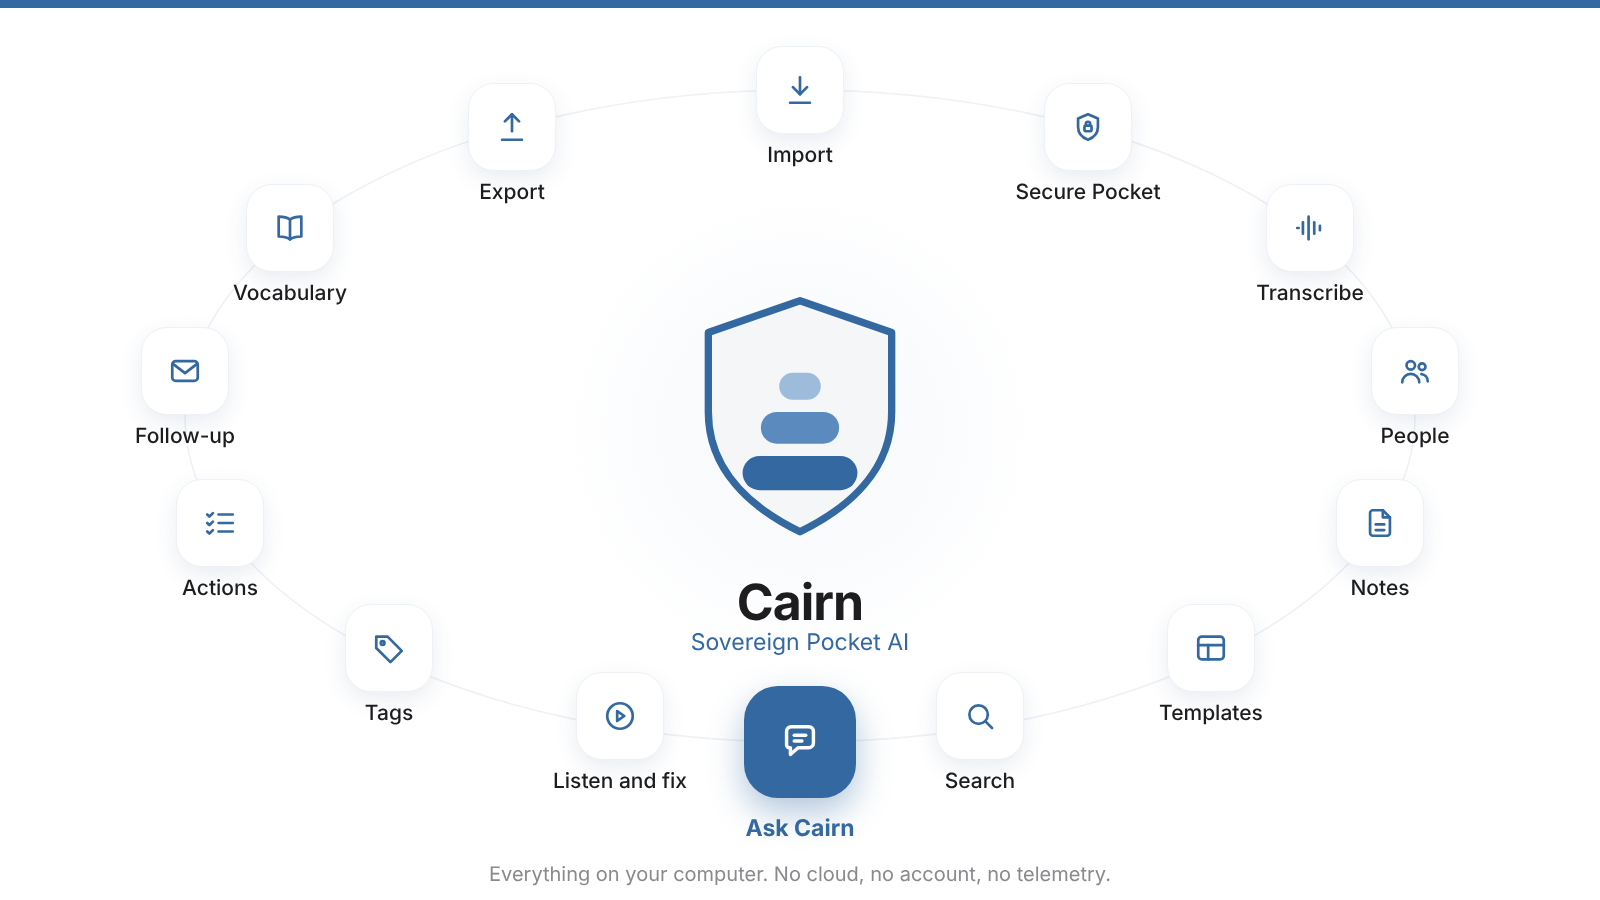
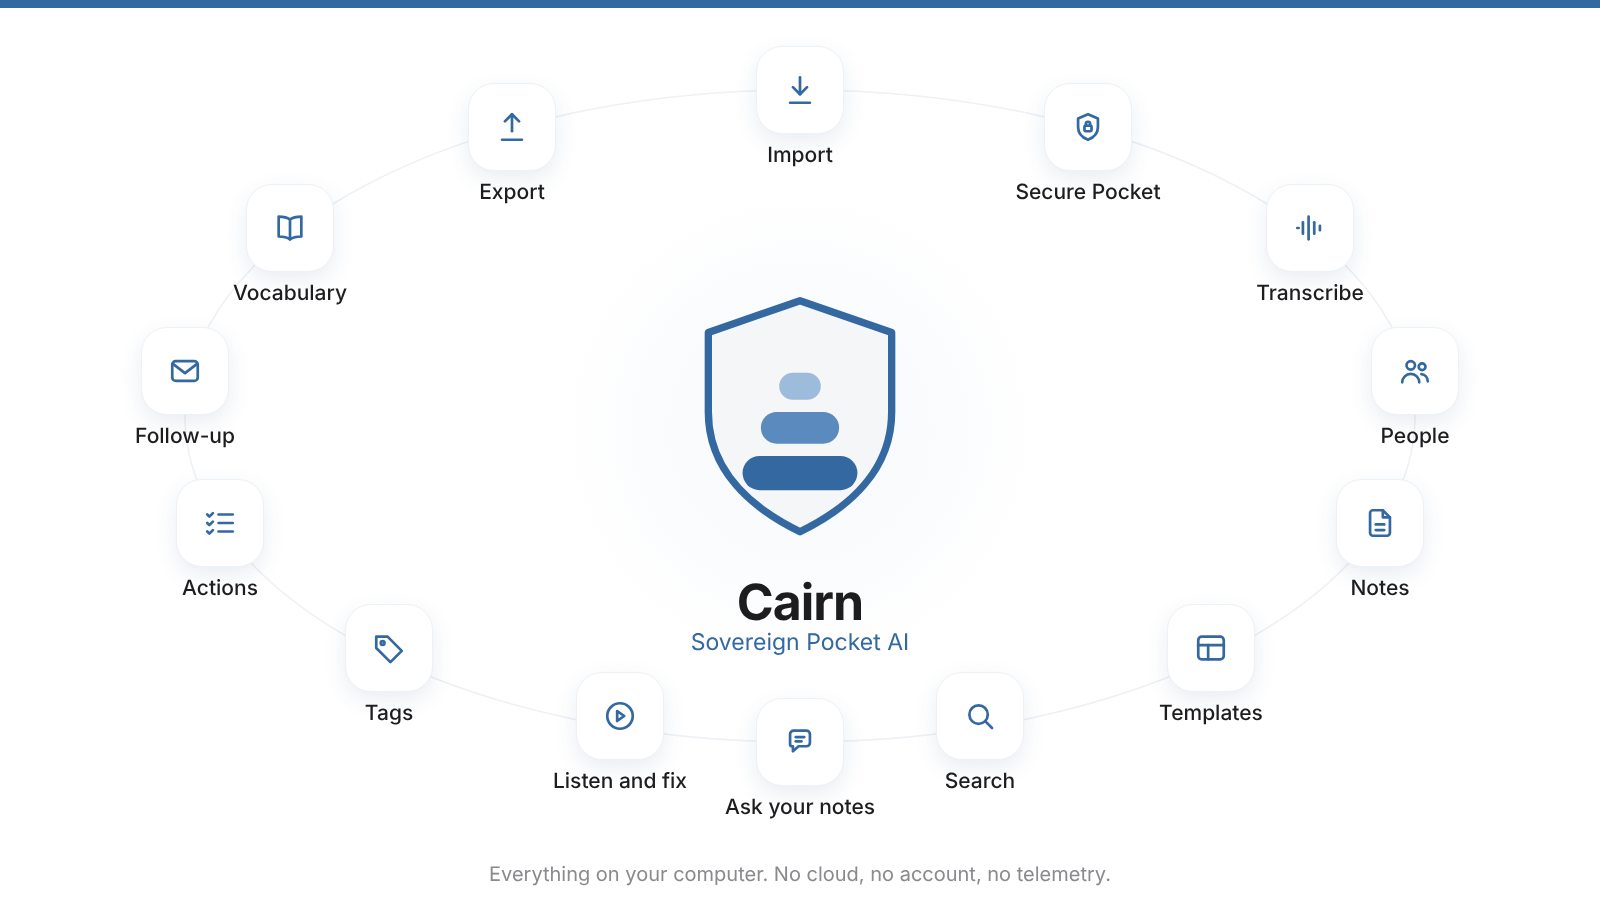
Docs: Ask your notes like any other feature
Back to the usual layout: the features image and the README treat the feature like the others, and the release notes are shorter.

Claude-Session: https://claude.ai/code/session_01UT5uZqFUHyBwm64AV4J4xV

Changed region(s): [[0.4375, 0.7467, 0.5625, 0.9333]]

diff --git a/cairn/web/app.js b/cairn/web/app.js
@@ -46,7 +46,7 @@
       pplForget: "Effacer l’empreinte vocale de cette personne", pplForgetAll: "Effacer toutes les empreintes vocales", pplForgotten: "Empreintes vocales effacées", pplVoice: "Voix mémorisée",
       voices: "Mémoriser les voix", voicesHint: "Optionnel. Cairn garde une empreinte de la voix de chaque personne que vous nommez, pour nommer seul les prochains enregistrements. Elle reste sur cet ordinateur et s’efface à tout moment. Il faut ensuite relancer l’identification des interlocuteurs sur les notes déjà faites.",
       spkAuto: "Reconnu par sa voix : corrigez-le si besoin",
-      modelsEmbed: "Recherche par sens", findRelated: "Passages proches", askGo: "Demander à Cairn", askHint: "Entrée pour poser la question", askWait: "Je cherche dans vos notes…", askStop: "Arrêter", askNone: "Je ne trouve rien à ce sujet dans vos notes.", askNoModel: "Installez un modèle de recherche (Réglages, Modèles) pour interroger vos notes.", askFailed: "La réponse a échoué. Vérifiez qu’Ollama est lancé, puis réessayez.", askSources: "Sources", askClear: "Nouvelle conversation", askFollow: "Une question de suite, ou un mot à chercher", askAllDates: "Toutes les dates", askDays: "{x} derniers jours", askAllTags: "Tous les tags", findIndexing: "Indexation des notes : {x} sur {y}",
+      modelsEmbed: "Recherche par sens", findRelated: "Passages proches", askGo: "Demander à mes notes", askHint: "Entrée pour poser la question", askWait: "Je cherche dans vos notes…", askStop: "Arrêter", askNone: "Je ne trouve rien à ce sujet dans vos notes.", askNoModel: "Installez un modèle de recherche (Réglages, Modèles) pour interroger vos notes.", askFailed: "La réponse a échoué. Vérifiez qu’Ollama est lancé, puis réessayez.", askSources: "Sources", askClear: "Nouvelle conversation", askFollow: "Une question de suite, ou un mot à chercher", askAllDates: "Toutes les dates", askDays: "{x} derniers jours", askAllTags: "Tous les tags", findIndexing: "Indexation des notes : {x} sur {y}",
       segEdit: "Corriger ce passage", segHere: "Ici seulement", segAlways: "Toujours : apprend la correction et l’applique à toutes les notes", segEdited: "Corrigé à la main",
       segHelp: "Corrigez le texte. « Ici seulement » ne change que cette ligne. « Toujours » ajoute une règle au vocabulaire pour toutes les notes.",
       segSaved: "Passage corrigé", segRule: "Règle ajoutée : {r}", segNoRule: "Pour apprendre une correction, modifiez un mot existant",
@@ -127,7 +127,7 @@
       pplForget: "Erase this person's voiceprint", pplForgetAll: "Erase all voiceprints", pplForgotten: "Voiceprints erased", pplVoice: "Voice remembered",
       voices: "Remember voices", voicesHint: "Optional. Cairn keeps a voiceprint of each person you name, to name the next recordings by itself. It stays on this computer and can be erased at any time. Run speaker identification again on notes already made.",
       spkAuto: "Recognised by voice: correct it if needed",
-      modelsEmbed: "Search by meaning", findRelated: "Related passages", askGo: "Ask Cairn", askHint: "Press Enter to ask", askWait: "Looking through your notes…", askStop: "Stop", askNone: "I find nothing about this in your notes.", askNoModel: "Install a search model (Settings, Models) to ask your notes.", askFailed: "The answer failed. Check that Ollama is running, then try again.", askSources: "Sources", askClear: "New conversation", askFollow: "A follow-up question, or a word to find", askAllDates: "All dates", askDays: "Last {x} days", askAllTags: "All tags", findIndexing: "Reading the notes: {x} of {y}",
+      modelsEmbed: "Search by meaning", findRelated: "Related passages", askGo: "Ask my notes", askHint: "Press Enter to ask", askWait: "Looking through your notes…", askStop: "Stop", askNone: "I find nothing about this in your notes.", askNoModel: "Install a search model (Settings, Models) to ask your notes.", askFailed: "The answer failed. Check that Ollama is running, then try again.", askSources: "Sources", askClear: "New conversation", askFollow: "A follow-up question, or a word to find", askAllDates: "All dates", askDays: "Last {x} days", askAllTags: "All tags", findIndexing: "Reading the notes: {x} of {y}",
       segEdit: "Correct this passage", segHere: "Only here", segAlways: "Always: learns the correction and applies it to every note", segEdited: "Corrected by hand",
       segHelp: "Fix the text. “Only here” changes this line only. “Always” adds a rule to the vocabulary for every note.",
       segSaved: "Passage corrected", segRule: "Rule added: {r}", segNoRule: "To teach a correction, change an existing word",

diff --git a/README.md b/README.md
@@ -2,29 +2,11 @@
 
 **Your Pocket. Your computer. Your data.**
 
-**Sovereign Pocket AI.** Cairn turns your Pocket recordings into sharp, structured notes. Transcribed, analysed and kept on your computer, and nowhere else. Then ask them anything.
+**Sovereign Pocket AI.** Cairn turns your Pocket recordings into sharp, structured notes. Transcribed, analysed and kept on your computer, and nowhere else.
 
 **No cloud. No account. No telemetry. Nothing leaves your machine.**
 
-![Talk to your recordings: ask Cairn in plain words and get the answer, and the minute it was said](docs/brand/hero.png)
-
-## Ask Cairn
-
-**Talk to everything you have recorded.**
-
-Ask in plain words. Cairn answers from what was said, and shows the minute it was said.
-
-- **Plain words in, answer out.** "Why did the launch slip?" "What did we promise the client?"
-- **Every statement sourced.** Tap a number, read the passage, hear the recording.
-- **A real conversation.** Follow up, narrow to a week or a tag.
-- **What is still open?** Your actions and decisions, listed at once.
-- **Private by design.** It runs on your Mac with a model you chose. No cloud, no account, nothing you ask is kept.
-
-![Asking Cairn: an answer with the passage behind it, then a follow-up](docs/screenshots/ask-hero.png)
-
-Optional, installed from Settings > Models. How it works: [docs/GUIDE.md](docs/GUIDE.md#finding-listening-following-up).
-
-![Cairn: import, secure Pocket, transcribe, people, notes, templates, search, ask Cairn, listen and fix, tags, actions, follow-up, vocabulary, export](docs/brand/features.png)
+![Cairn: import, secure Pocket, transcribe, people, notes, templates, search, ask your notes, listen and fix, tags, actions, follow-up, vocabulary, export](docs/brand/features.png)
 
 ## What Cairn does
 
@@ -32,7 +14,7 @@ Optional, installed from Settings > Models. How it works: [docs/GUIDE.md](docs/G
 
 **Understand.** Whisper writes every word on your machine, for one minute or four hours. Voices are named once and recognised in every note. Each note comes with a title, a summary, decisions, actions and key points, in the template you defined once, with a fidelity score that keeps the AI honest.
 
-**Find and fix.** Any word in every note in a second, or ask Cairn a question and get the answer with its source. Tap a time stamp, hear the passage, fix the word. Teach Cairn your names once and they are right in every note. Tags replace folders.
+**Find and fix.** Any word in every note in a second, or ask your notes a question and get an answer with its source. Tap a time stamp, hear the passage, fix the word. Teach Cairn your names once and they are right in every note. Tags replace folders.
 
 **Act.** Every action from every note, by person, in one list. The follow-up email is already written. Export to Markdown, HTML, text or email.
 
@@ -51,9 +33,9 @@ What is new in each version: [Release notes](docs/RELEASE-NOTES.md).
 |---|---|---|
 | ![Securing the Pocket with a password](docs/screenshots/vault.png) | ![A protected Pocket](docs/screenshots/vault-secured.png) | ![People of all the notes](docs/screenshots/people.png) |
 
-| Find anything | Ask Cairn | Hear what was said |
+| Find anything | Ask your notes | Hear what was said |
 |---|---|---|
-| ![Search](docs/screenshots/find.png) | ![Ask Cairn, with the passage behind every answer](docs/screenshots/ask.png) | ![Transcript with the recording](docs/screenshots/listen.png) |
+| ![Search](docs/screenshots/find.png) | ![Ask your notes, with the passage behind every answer](docs/screenshots/ask.png) | ![Transcript with the recording](docs/screenshots/listen.png) |
 
 | Fix it in place | Words to check | Your vocabulary |
 |---|---|---|
@@ -117,7 +99,7 @@ You need neither the Pocket desktop app nor a Pocket account on the computer.
 
 > **Names and places (optional):** in Settings, add the names of people and places and the rare terms you use to Vocabulary, one per line. Cairn writes close variants as listed in the transcript, tells the summary the spelling, and shows every correction on the note. `Brant, Brand => Brandt` always replaces each spelling, and `Open Day => BRANDT Day | awards, ceremony` only near those words. One tap then updates the notes that need it.
 
-> **Ask Cairn (optional):** in Settings > Models, install a search model (Qwen3 Embedding 0.6B, 0.6 GB, or BGE-M3, 1.2 GB, many languages). Your notes are indexed in the background, then a question typed in the magnifier and sent with Enter is answered by your summary model from the passages it finds, each with its number, note and minute. Follow-ups, "what is still open?", and a period or a tag to narrow the question are all there; the model has no tool, nothing is stored and nothing leaves your computer. Details: [docs/GUIDE.md](docs/GUIDE.md#finding-listening-following-up).
+> **Ask your notes (optional):** in Settings > Models, install a search model (Qwen3 Embedding 0.6B or BGE-M3). Then type a question in the magnifier and press Enter: your summary model answers from the passages it finds, each with its note and minute. Follow up, ask what is still open, or narrow it to a period or a tag. Nothing is stored and nothing leaves your computer. Details: [docs/GUIDE.md](docs/GUIDE.md#finding-listening-following-up).
 
 > **Choose your models (optional):** the default install uses Whisper large-v3-turbo and Qwen3 4B. In Settings > Models you can switch the speech model to Whisper large-v3 (3.1 GB, slower, 16 GB of memory advised) and the summary model to Qwen3 8B or 14B. Nothing downloads until you confirm, and a model already in your Ollama is reused. Sizes shown for installed models are the real ones on your computer.
 

diff --git a/docs/GUIDE.md b/docs/GUIDE.md
@@ -91,7 +91,7 @@ Both scores appear in the exports (Markdown, HTML, copy). Secure mode hides the 
 
 - **Search:** the magnifier in the header searches the title, the summary and the transcript of every finished note, without regard to accents. Every word you type must be there. Each result shows the lines found with your words marked: a transcript line opens the transcript at that moment, the others open the note. Secure mode hides the search like it hides the list.
 - **Related passages:** with a search model installed (Settings, **Models**, Search by meaning), a pause in typing adds **Related passages** below the usual results: the lines that answer a question even when the words differ. The model runs in your local model server and the notes are read once, in the background.
-- **Ask Cairn:** with the same search model, type a question in the magnifier and press Enter (or tap the speech bubble). Cairn finds the passages that answer it, by meaning and by words, so a name, a figure or an acronym is found too, adds the lines before and after each one, and gives only those passages to your summary model, which writes a short answer. Every statement carries a number: tap it, or the matching source below the answer, to open the note at that minute. A number that does not match a passage is dropped. If nothing in your notes comes close to the question, Cairn says so and does not wake the model.
+- **Ask your notes:** with the same search model, type a question in the magnifier and press Enter (or tap the speech bubble). Cairn finds the passages that answer it, by meaning and by words, so a name, a figure or an acronym is found too, adds the lines before and after each one, and gives only those passages to your summary model, which writes a short answer. Every statement carries a number: tap it, or the matching source below the answer, to open the note at that minute. A number that does not match a passage is dropped. If nothing in your notes comes close to the question, Cairn says so and does not wake the model.
   - **Follow up:** the box empties after each question, ready for the next one: "and who tells the client?" is understood from what came before. The last three exchanges are kept, in the page only: the trash icon starts over, and closing Cairn clears them. Nothing is written to disk.
   - **What is still open?** A question about actions, to-dos or decisions is answered at once, with no model to wait for: the list is read from the summaries of your most recent notes, newest first, up to 30 lines, each with its source number. Only the open actions are listed; ask for the ones that are "done" to see them too, marked with a tick. When there are more, the last line says how many are left. A question that says "today", "this week", "this month" or "the last 30 days" (in English or French) looks only at that period.
   - **Narrow it down:** the two menus under the box limit a question to the last 7, 30 or 90 days, or to one tag.
@@ -112,7 +112,7 @@ The default install is the smallest that gives good results: Whisper large-v3-tu
 
 For sharper notes, open **Settings, Models**, pick a larger model (Qwen3 8B or 14B, Whisper large-v3), confirm the download, then press **Use**. Nothing downloads without your click, and a model can be removed from the same screen to free disk space. If Qwen3 8B is already in your Ollama, Cairn uses it. It never modifies your existing Ollama or models.
 
-**Search by meaning** is optional: Qwen3 Embedding 0.6B (0.6 GB) or BGE-M3 (1.2 GB, many languages). Install one and your notes are indexed in the background; remove it and the index is deleted. It also powers **Ask Cairn**.
+**Search by meaning** is optional: Qwen3 Embedding 0.6B (0.6 GB) or BGE-M3 (1.2 GB, many languages). Install one and your notes are indexed in the background; remove it and the index is deleted. It also powers **Ask your notes**.
 
 ## Names and places
 

diff --git a/SECURITY.md b/SECURITY.md
@@ -25,7 +25,7 @@ About 5.5 GB in total on a clean Mac and 7 GB on Windows (estimates). An existin
 - One folder with owner-only permissions. Delete it to uninstall.
 - The model server listens on `127.0.0.1` only, and the self test refuses any other address.
 - The web interface is served on `127.0.0.1` only, behind a session key (HttpOnly, SameSite strict cookie), a Host check, a custom header on every change and a strict content security policy.
-- Ask Cairn: what a recording says is treated as data, never as an order. Passages are fenced in the request and cannot close their own tag, the model has no tool and no network, and its answer is shown as plain text, so a link or an image in it is never loaded. A citation that matches no passage is dropped. The conversation is kept in the page only, and the log keeps neither a question nor any text.
+- Ask your notes: what a recording says is treated as data, never as an order. Passages are fenced in the request and cannot close their own tag, the model has no tool and no network, and its answer is shown as plain text, so a link or an image in it is never loaded. A citation that matches no passage is dropped. The conversation is kept in the page only, and the log keeps neither a question nor any text.
 - A network guard refuses any outside connection in the app and the speech engine, except the daily version check, and a daily privacy check observes Cairn, the speech engine and the model server. Details: [docs/PRIVACY.md](docs/PRIVACY.md).
 - Pocket vault: AES-256-GCM in 1 MiB chunks, one key per file derived with HKDF from a key that scrypt (N=131072, 128 MiB) derives from the password (10 characters at least; the vault header on the Pocket may not ask for more than that cost). Each chunk's position and an end marker are authenticated, so a file that was cut, reordered or extended is refused. The password is never stored; the key is kept only in the system keychain of a computer you trust. A recording on the Pocket is replaced only after the local copy was checked again, the encrypted copy read back and compared, and the recording found unchanged. The readable file is then overwritten with random bytes before it is deleted; on a flash drive this is best effort, because the drive may keep blocks it moved on its own. A vault is never replaced by another: a header that cannot be read blocks a new one.
 - Checks on every change: shell and Python static analysis, secrets scan, and a full install test on macOS and Windows.

diff --git a/docs/RELEASE-NOTES.md b/docs/RELEASE-NOTES.md
@@ -2,17 +2,14 @@
 
 ## 0.6
 
-**Ask Cairn: talk to everything you have recorded.**
-Ask in plain words and get the answer, with the exact minute it was said behind every statement. Follow up like in a chat. It runs on your Mac, with no cloud and no account, and nothing you ask is kept.
+**Ask your notes.**
+Ask in your own words and get the answer, with the note and the minute behind every statement. Follow up, or narrow it to a period or a tag. It runs on your Mac and nothing is kept.
 
-**What is still open? Answered before you blink.**
-Ask for your open actions or your decisions, this week, this month or ever. The list is there at once, straight from your notes, every line sourced.
+**Open actions and decisions, at once.**
+Ask what is still open and the list is there instantly, straight from your notes.
 
-**It finds the name, not just the idea.**
-Names, figures and acronyms are caught even when the wording differs, and the lines around each passage come with it, so the answer is whole.
-
-**Ask only where you want.**
-Narrow a question to the last 7, 30 or 90 days, or to one tag.
+**Names and numbers, found.**
+A name, a figure or an acronym is found even when the wording differs.
 
 ## 0.5
 
